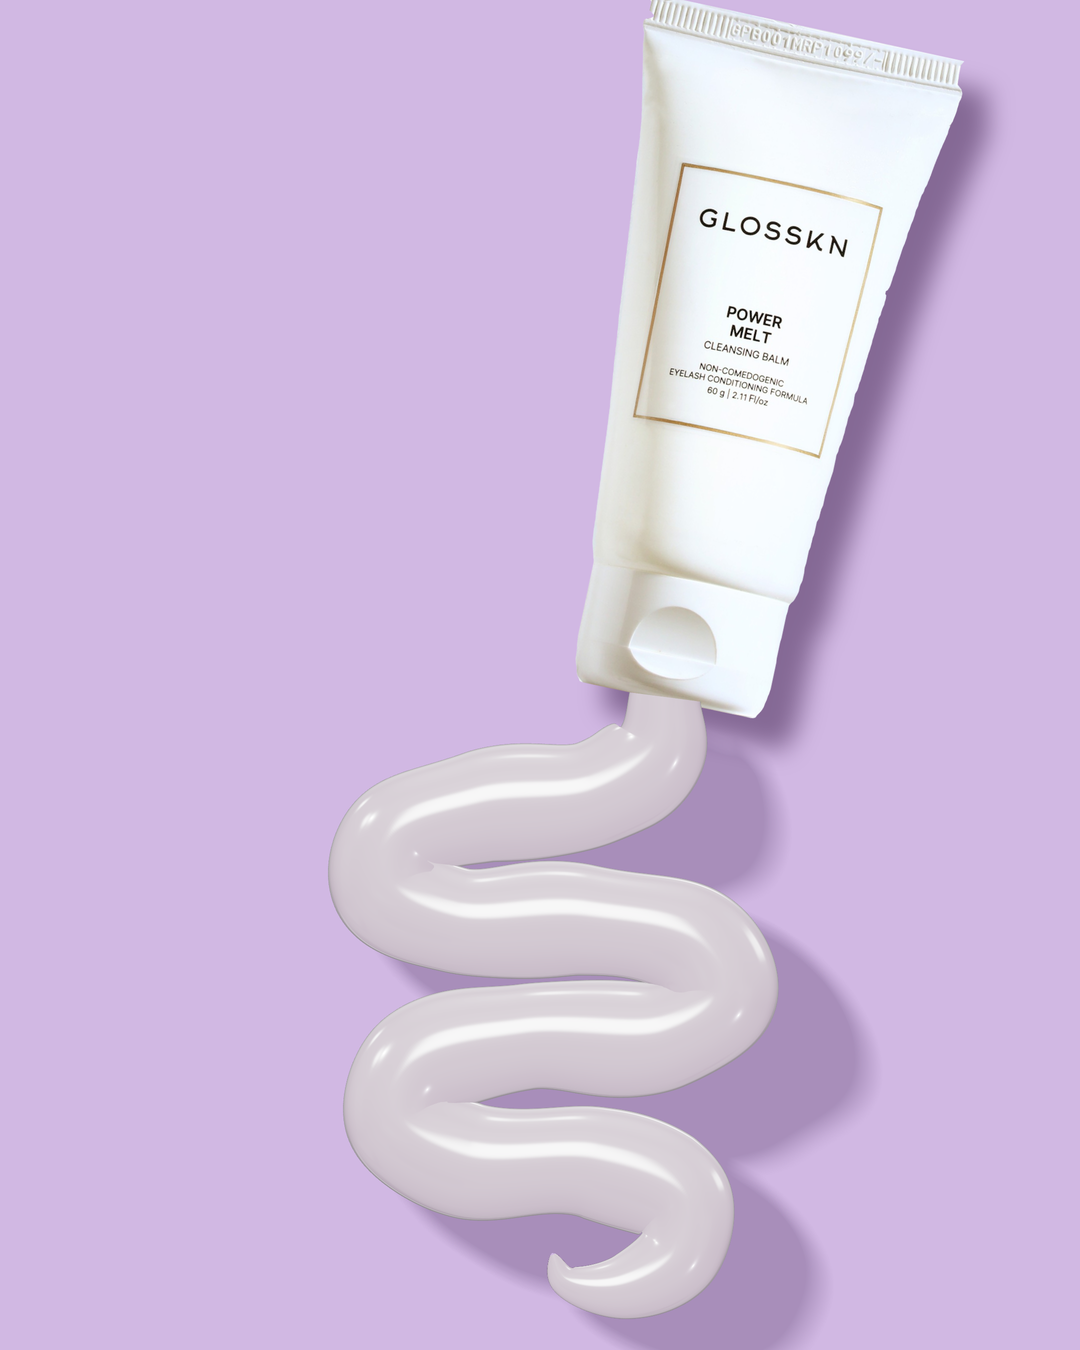
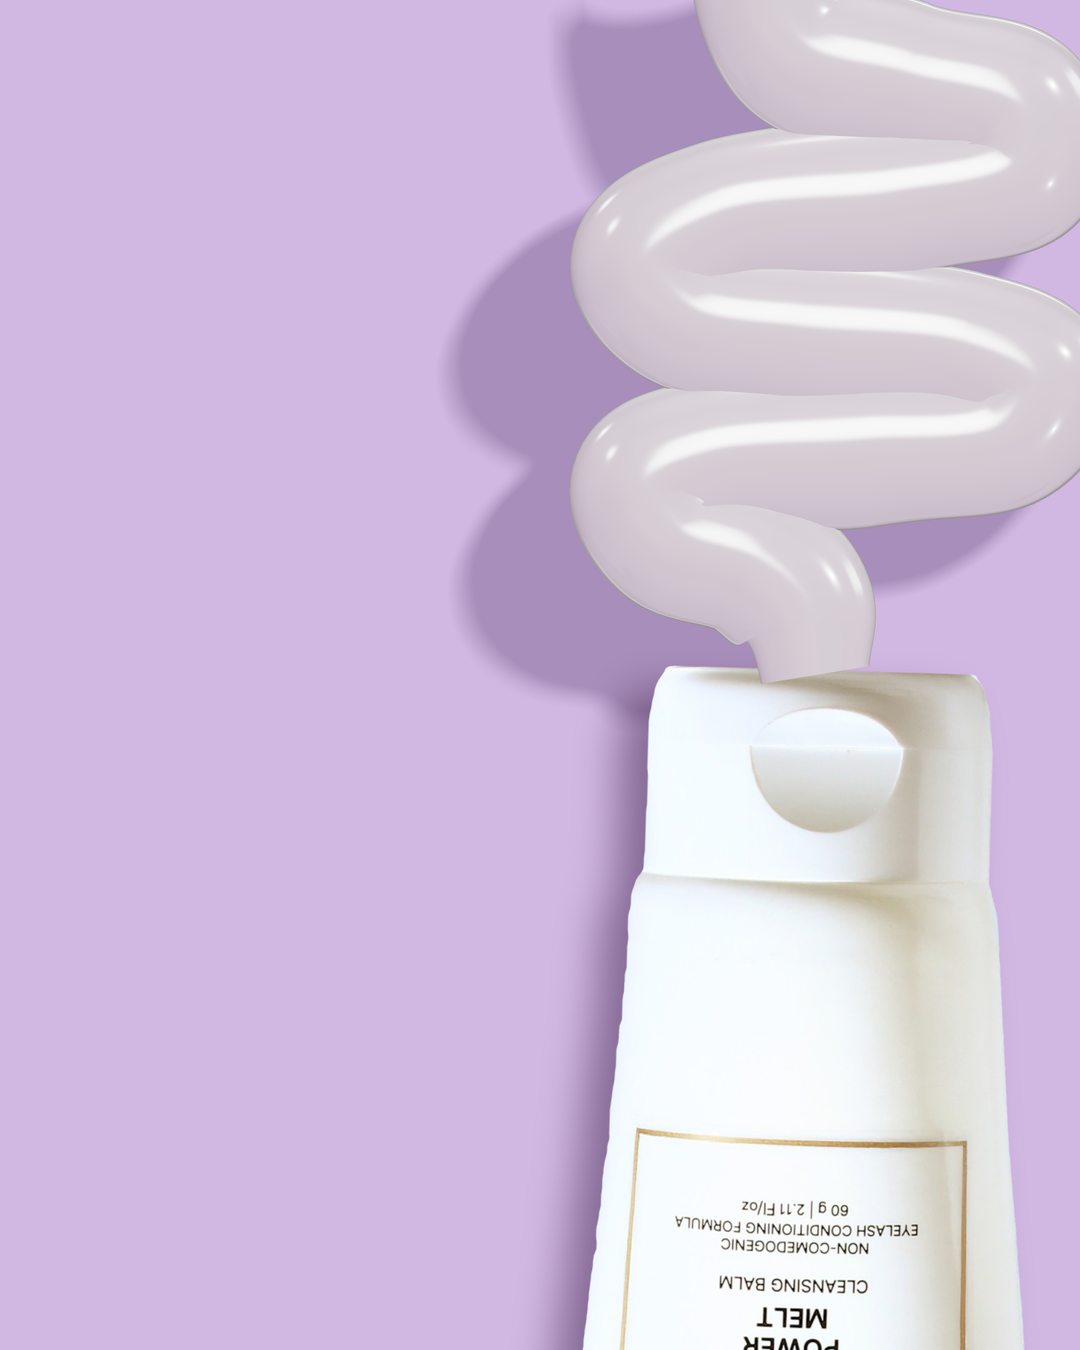
Match Power Melt swirl image to the reference layout
Claude-Session: https://claude.ai/code/session_01GuiyvcxDgFsFUoQUhNJsjW

diff --git a/carousels/swatch/index.html b/carousels/swatch/index.html
@@ -40,7 +40,7 @@ floor.receiveShadow = true;
 scene.add(floor);
 
 const key = new THREE.DirectionalLight(0xffffff, 1.8);
-key.position.set(-9, 7, 7);
+key.position.set(8, 6, 7);
 key.castShadow = true;
 key.shadow.mapSize.set(2048, 2048);
 key.shadow.radius = 14;
@@ -59,9 +59,9 @@ const [tubeTex, shadowTex] = await Promise.all([load("tube.png"), load("tube-sha
 tubeTex.colorSpace = THREE.SRGBColorSpace; tubeTex.anisotropy = 8;
 shadowTex.colorSpace = THREE.SRGBColorSpace;
 
-const TW = 3.3, TH = TW * 1526 / 731;
-const theta = THREE.MathUtils.degToRad(-12);
-const capEnd = new THREE.Vector2(1.25, -0.25);                 // centre of the cap's end face
+const TW = 5.7, TH = TW * 1526 / 731;
+const theta = THREE.MathUtils.degToRad(178.3);   // cap pointing up, as in the reference
+const capEnd = new THREE.Vector2(2.85, 0.05);                 // centre of the cap's end face
 const axisUp = new THREE.Vector2(-Math.sin(theta), Math.cos(theta));  // cap → crimp
 const centre = capEnd.clone().add(axisUp.clone().multiplyScalar(TH / 2));
 
@@ -74,26 +74,26 @@ scene.add(tube);
 const SW = TW * 891 / 731, SH = TH * 1686 / 1526;
 const tubeShadow = new THREE.Mesh(new THREE.PlaneGeometry(SW, SH),
   new THREE.MeshBasicMaterial({ map: shadowTex, transparent: true, depthWrite: false, toneMapped: false }));
-tubeShadow.position.set(centre.x + 0.28, centre.y - 0.32, 0.01);
+tubeShadow.position.set(centre.x - 0.3, centre.y - 0.25, 0.01);
 tubeShadow.rotation.z = theta;
 scene.add(tubeShadow);
 
 // ---------- the balm: a flattened, variable-radius sweep that folds back and forth ----------
-const pts = [
-  [1.25, -0.22], [1.18, -0.75], [0.55, -1.18], [-0.6, -1.32], [-1.42, -1.62], [-1.5, -2.12],
-  [-0.85, -2.45], [0.45, -2.45], [1.55, -2.7], [1.82, -3.2], [1.25, -3.6], [-0.15, -3.62],
-  [-1.25, -3.92], [-1.42, -4.45], [-0.75, -4.85], [0.55, -4.88], [1.42, -5.25], [1.38, -5.8],
-  [0.82, -6.12], [0.25, -6.05], [0.12, -5.78],
-].map(([x, y]) => new THREE.Vector3(x, y, 0));
+const N = [
+  [0.755, 0.50], [0.745, 0.452], [0.70, 0.418], [0.625, 0.395], [0.605, 0.360], [0.66, 0.338],
+  [0.80, 0.330], [0.93, 0.318], [0.955, 0.285], [0.89, 0.257], [0.74, 0.246], [0.635, 0.230],
+  [0.605, 0.195], [0.67, 0.160], [0.83, 0.146], [0.945, 0.122], [0.94, 0.082], [0.84, 0.058],
+  [0.74, 0.035], [0.71, -0.02], [0.72, -0.08],
+];
+const pts = N.map(([nx, ny]) => new THREE.Vector3((nx - 0.5) * W / 100, (0.5 - ny) * H / 100, 0));
 const curve = new THREE.CatmullRomCurve3(pts, false, "centripetal");
 
 const SEG = 900, RAD = 20;
 const R0 = 0.56;
 function radius(t) {
-  const start = 0.36 + (R0 - 0.36) * THREE.MathUtils.smoothstep(t, 0, 0.06);
-  const tail = t > 0.86 ? Math.pow(Math.max(0, 1 - (t - 0.86) / 0.14), 0.6) : 1;
-  const swell = 1 + 0.05 * Math.sin(t * 62);           // gentle irregularity, like real piping
-  return start * tail * swell;
+  const start = 0.55 + (0.8 - 0.55) * THREE.MathUtils.smoothstep(t, 0, 0.06);
+  const swell = 1 + 0.04 * Math.sin(t * 58);           // gentle irregularity, like real piping
+  return start * swell;                                 // runs out of frame, no tail
 }
 const frames = curve.computeFrenetFrames(SEG, false);
 const pos = [], nor = [], idx = [];
@@ -105,7 +105,7 @@ for (let i = 0; i <= SEG; i++) {
   const side = new THREE.Vector3().crossVectors(up, T).normalize();   // horizontal normal
   const r = radius(t);
   const h = r * 0.78;                                                  // squashed: balm settles
-  const lift = 0.03 + 0.11 * t;                                        // later folds sit on earlier ones
+  const lift = 0.03 + 0.25 * t;                                        // later folds sit on earlier ones
   for (let j = 0; j <= RAD; j++) {
     const a = (j / RAD) * Math.PI * 2;
     const c = Math.cos(a), s = Math.sin(a);
